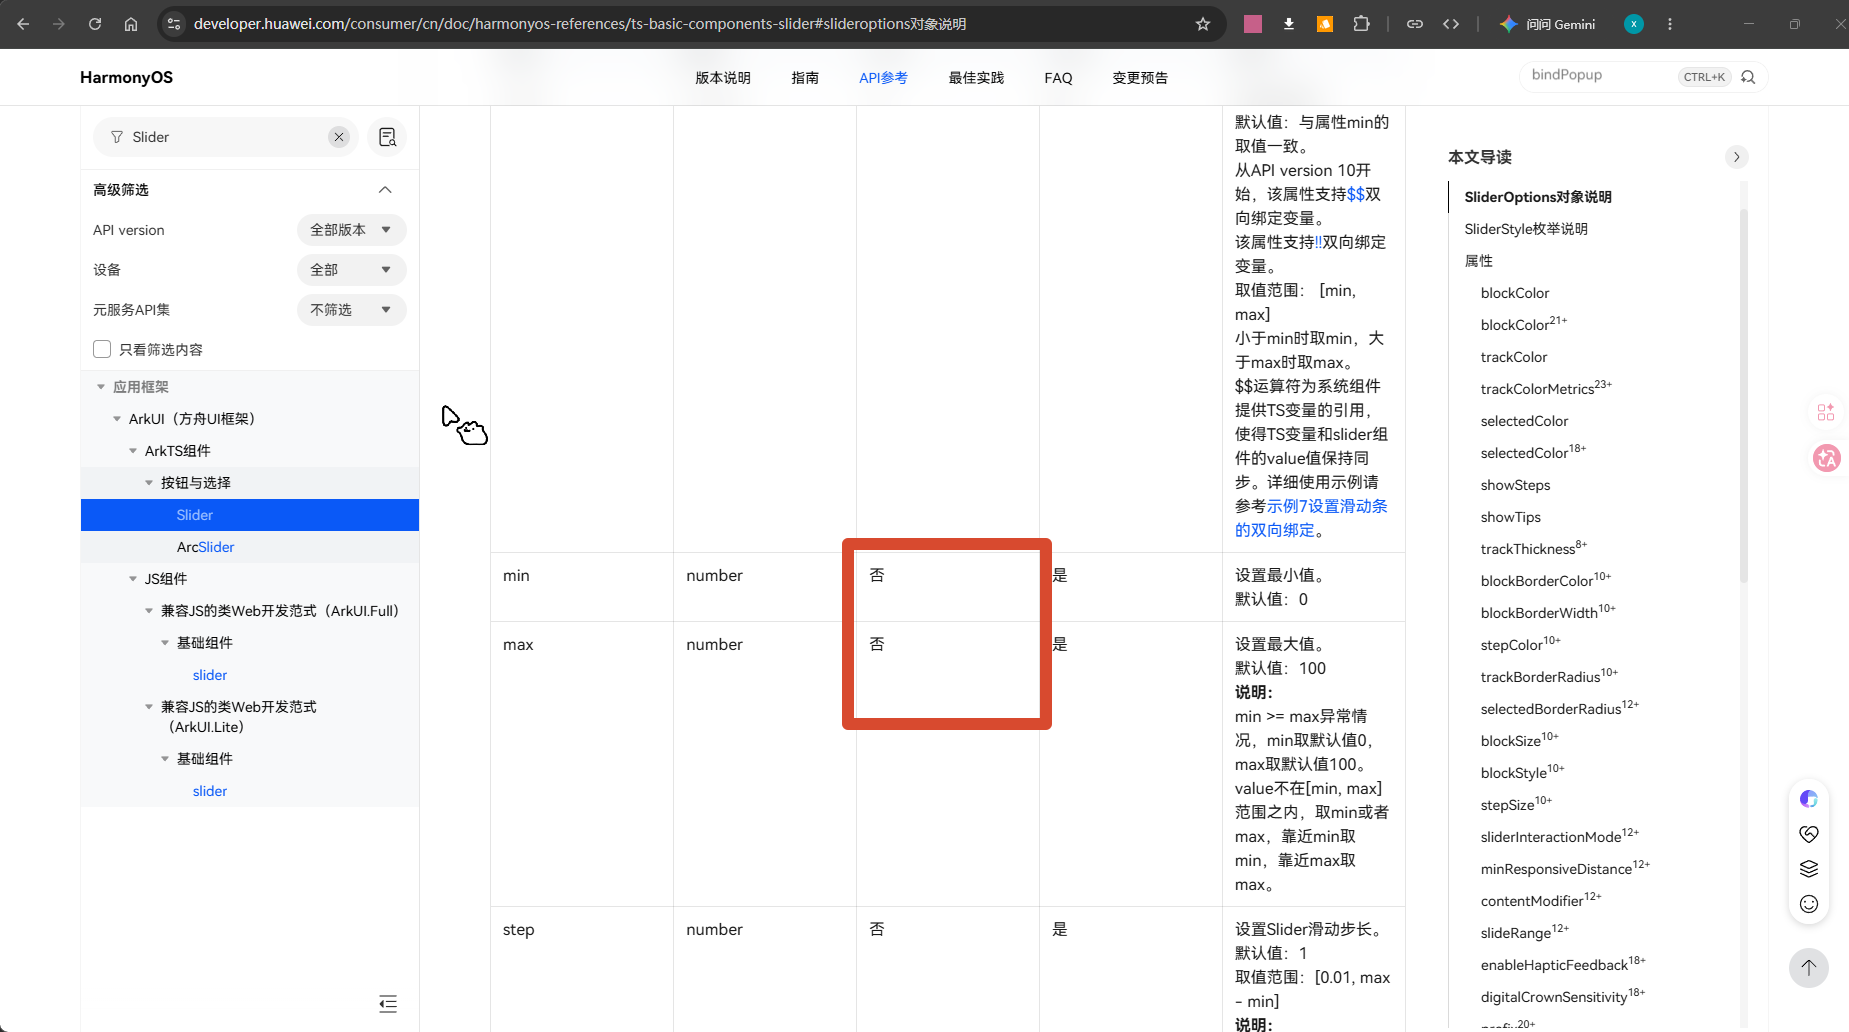
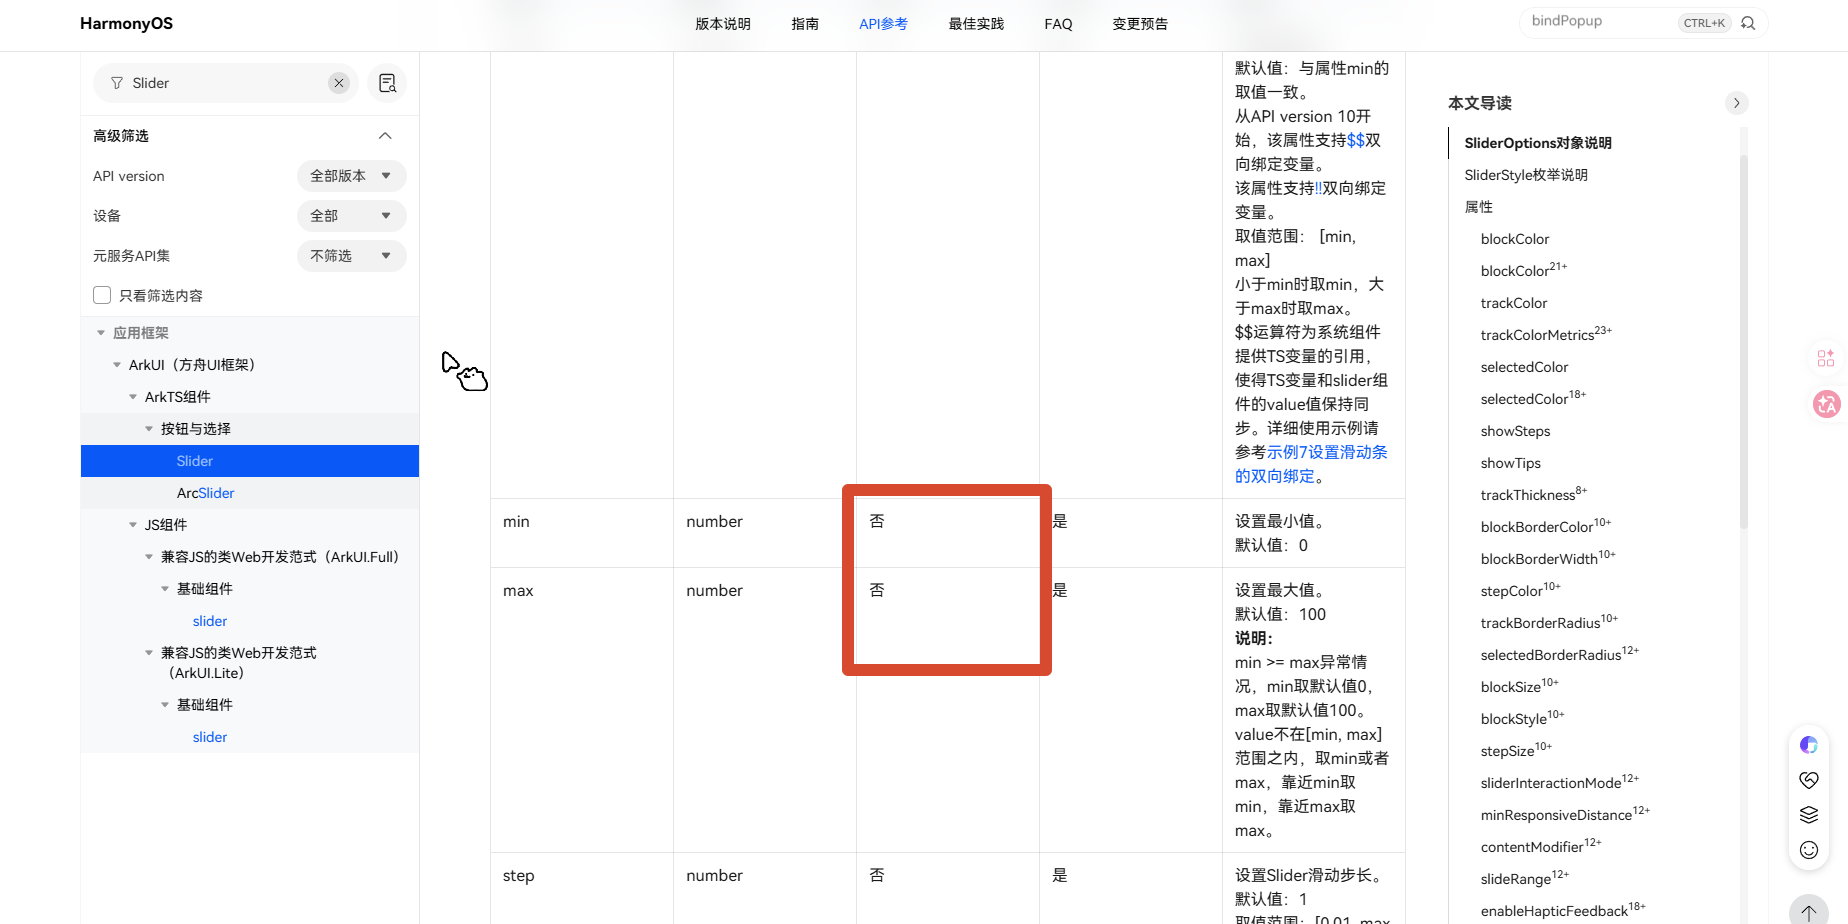
Improve captcha slider responsiveness
Add a persistent memory section to AGENTS.md. Refactor Captcha component: normalize imports/spacing, add containerWidth state and sliderMax constant, compute foreground image x position based on container width for responsive positioning, update onAreaChange to capture container width, and use sliderMax for the Slider max value. Also include updated test media images (testb.png, testp.png).

diff --git a/AGENTS.md b/AGENTS.md
@@ -144,3 +144,9 @@ curl.exe -L \
   -H "Accept: application/vnd.github+json" \
   -H "X-GitHub-Api-Version: 2026-03-10" \
   <https://api.github.com/rate_limit>
+
+<!-- opencode-memory:start -->
+
+## 持久记忆数据
+
+<!-- opencode-memory:end -->
